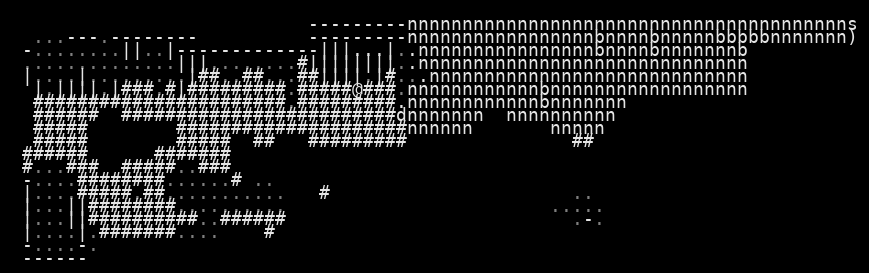
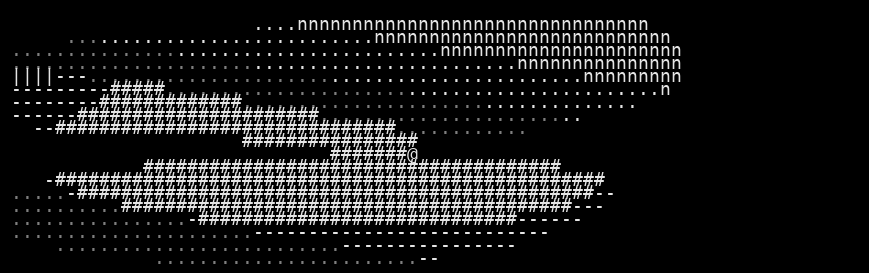
back up

diff --git a/train.py b/train.py
@@ -1536,8 +1536,6 @@ def train_multimodalhack_vae(
                         "train/raw_loss/total": train_loss_dict['total_raw_loss'].item(),
                         "train/raw_loss/occupancy": train_loss_dict['raw_losses']['occupy'].item(),
                         "train/raw_loss/rare_occupancy": train_loss_dict['raw_losses']['rare_occupy'].item(),
-                        "train/raw_loss/total_variation": train_loss_dict['raw_losses']['tv'].item(),
-                        "train/raw_loss/dice_loss": train_loss_dict['raw_losses']['dice'].item(),
                         "train/raw_loss/common_glyph_chars": train_loss_dict['raw_losses']['common_char'].item(),
                         "train/raw_loss/common_glyph_colors": train_loss_dict['raw_losses']['common_color'].item(),
                         "train/raw_loss/rare_glyph_chars": train_loss_dict['raw_losses']['rare_char'].item(),

diff --git a/src/model.py b/src/model.py
@@ -1291,8 +1291,8 @@ def vae_loss(
         'rare_color': 2.0,
         'stats': 0.5, 
         'msg': 0.5, 
-        'bag': 50, 
-        'hero_loc': 100
+        'bag': 8, 
+        'hero_loc': 8
     },
     focal_loss_alpha=0.1,
     focal_loss_gamma=2.0,
@@ -1478,8 +1478,6 @@ def vae_loss(
 
     # Sum raw reconstruction losses
     total_raw_loss = sum(raw_losses[k] * raw_modality_weights.get(k, 1.0) for k in raw_losses)
-    raw_losses['tv'] = tv  # Add total variation loss
-    raw_losses['dice'] = dice_loss
     
     # KL divergence
     # Sigma_q = lowrank_factors @ lowrank_factors.T + torch.diag(torch.exp(logvar))

diff --git a/vae_analysis/train_recon_comparison.md b/vae_analysis/train_recon_comparison.md
@@ -1,6 +1,6 @@
 # VAE Reconstruction Comparison
 
-_Generated: 2025-08-15T13:03:42_
+_Generated: 2025-08-16T21:56:41_
 
 ## Sample 1
 
@@ -9,8 +9,8 @@ _Generated: 2025-08-15T13:03:42_
 | ![orig 0](images/train_sample_000_orig.png) | ![recon 0](images/train_sample_000_recon.png) |
 
 
- Sample 1 Accuracy:   Character accuracy: 0.851 (1411/1659 cells)
-   Color accuracy: 0.889 (1475/1659 cells)
+ Sample 1 Accuracy:   Character accuracy: 0.482 (800/1659 cells)
+   Color accuracy: 0.517 (857/1659 cells)
 
 ================================================================================
 ## Sample 2
@@ -20,8 +20,8 @@ _Generated: 2025-08-15T13:03:42_
 | ![orig 1](images/train_sample_001_orig.png) | ![recon 1](images/train_sample_001_recon.png) |
 
 
- Sample 2 Accuracy:   Character accuracy: 0.641 (1064/1659 cells)
-   Color accuracy: 0.755 (1252/1659 cells)
+ Sample 2 Accuracy:   Character accuracy: 0.486 (806/1659 cells)
+   Color accuracy: 0.570 (946/1659 cells)
 
 ================================================================================
 ## Sample 3
@@ -31,8 +31,8 @@ _Generated: 2025-08-15T13:03:42_
 | ![orig 2](images/train_sample_002_orig.png) | ![recon 2](images/train_sample_002_recon.png) |
 
 
- Sample 3 Accuracy:   Character accuracy: 0.817 (1356/1659 cells)
-   Color accuracy: 0.871 (1445/1659 cells)
+ Sample 3 Accuracy:   Character accuracy: 0.418 (694/1659 cells)
+   Color accuracy: 0.468 (777/1659 cells)
 
 ================================================================================
 ## Sample 4
@@ -42,8 +42,8 @@ _Generated: 2025-08-15T13:03:42_
 | ![orig 3](images/train_sample_003_orig.png) | ![recon 3](images/train_sample_003_recon.png) |
 
 
- Sample 4 Accuracy:   Character accuracy: 0.801 (1329/1659 cells)
-   Color accuracy: 0.854 (1416/1659 cells)
+ Sample 4 Accuracy:   Character accuracy: 0.456 (756/1659 cells)
+   Color accuracy: 0.508 (842/1659 cells)
 
 ================================================================================
 ## Sample 5
@@ -53,8 +53,8 @@ _Generated: 2025-08-15T13:03:42_
 | ![orig 4](images/train_sample_004_orig.png) | ![recon 4](images/train_sample_004_recon.png) |
 
 
- Sample 5 Accuracy:   Character accuracy: 0.861 (1428/1659 cells)
-   Color accuracy: 0.896 (1487/1659 cells)
+ Sample 5 Accuracy:   Character accuracy: 0.473 (785/1659 cells)
+   Color accuracy: 0.535 (887/1659 cells)
 
 ================================================================================
 ## Sample 6
@@ -64,8 +64,8 @@ _Generated: 2025-08-15T13:03:42_
 | ![orig 5](images/train_sample_005_orig.png) | ![recon 5](images/train_sample_005_recon.png) |
 
 
- Sample 6 Accuracy:   Character accuracy: 0.775 (1286/1659 cells)
-   Color accuracy: 0.821 (1362/1659 cells)
+ Sample 6 Accuracy:   Character accuracy: 0.399 (662/1659 cells)
+   Color accuracy: 0.467 (775/1659 cells)
 
 ================================================================================
 ## Sample 7
@@ -75,8 +75,8 @@ _Generated: 2025-08-15T13:03:42_
 | ![orig 6](images/train_sample_006_orig.png) | ![recon 6](images/train_sample_006_recon.png) |
 
 
- Sample 7 Accuracy:   Character accuracy: 0.766 (1270/1659 cells)
-   Color accuracy: 0.822 (1364/1659 cells)
+ Sample 7 Accuracy:   Character accuracy: 0.467 (774/1659 cells)
+   Color accuracy: 0.534 (886/1659 cells)
 
 ================================================================================
 ## Sample 8
@@ -86,8 +86,8 @@ _Generated: 2025-08-15T13:03:42_
 | ![orig 7](images/train_sample_007_orig.png) | ![recon 7](images/train_sample_007_recon.png) |
 
 
- Sample 8 Accuracy:   Character accuracy: 0.809 (1342/1659 cells)
-   Color accuracy: 0.842 (1397/1659 cells)
+ Sample 8 Accuracy:   Character accuracy: 0.492 (816/1659 cells)
+   Color accuracy: 0.565 (938/1659 cells)
 
 ================================================================================
 ## Sample 9
@@ -97,8 +97,8 @@ _Generated: 2025-08-15T13:03:42_
 | ![orig 8](images/train_sample_008_orig.png) | ![recon 8](images/train_sample_008_recon.png) |
 
 
- Sample 9 Accuracy:   Character accuracy: 0.700 (1161/1659 cells)
-   Color accuracy: 0.725 (1203/1659 cells)
+ Sample 9 Accuracy:   Character accuracy: 0.596 (989/1659 cells)
+   Color accuracy: 0.611 (1014/1659 cells)
 
 ================================================================================
 ## Sample 10
@@ -108,8 +108,8 @@ _Generated: 2025-08-15T13:03:42_
 | ![orig 9](images/train_sample_009_orig.png) | ![recon 9](images/train_sample_009_recon.png) |
 
 
- Sample 10 Accuracy:   Character accuracy: 0.778 (1290/1659 cells)
-   Color accuracy: 0.842 (1397/1659 cells)
+ Sample 10 Accuracy:   Character accuracy: 0.550 (912/1659 cells)
+   Color accuracy: 0.608 (1009/1659 cells)
 
-📈 Overall Reconstruction Statistics:   Average Character Reconstruction Accuracy: 0.780
-   Average Color Reconstruction Accuracy: 0.832
+📈 Overall Reconstruction Statistics:   Average Character Reconstruction Accuracy: 0.482
+   Average Color Reconstruction Accuracy: 0.538

diff --git a/vae_analysis/test_recon_comparison.md b/vae_analysis/test_recon_comparison.md
@@ -1,6 +1,6 @@
 # VAE Reconstruction Comparison
 
-_Generated: 2025-08-15T13:03:44_
+_Generated: 2025-08-16T21:56:43_
 
 ## Sample 1
 
@@ -9,8 +9,8 @@ _Generated: 2025-08-15T13:03:44_
 | ![orig 0](images/test_sample_000_orig.png) | ![recon 0](images/test_sample_000_recon.png) |
 
 
- Sample 1 Accuracy:   Character accuracy: 0.570 (946/1659 cells)
-   Color accuracy: 0.652 (1082/1659 cells)
+ Sample 1 Accuracy:   Character accuracy: 0.518 (860/1659 cells)
+   Color accuracy: 0.593 (984/1659 cells)
 
 ================================================================================
 ## Sample 2
@@ -20,8 +20,8 @@ _Generated: 2025-08-15T13:03:44_
 | ![orig 1](images/test_sample_001_orig.png) | ![recon 1](images/test_sample_001_recon.png) |
 
 
- Sample 2 Accuracy:   Character accuracy: 0.797 (1323/1659 cells)
-   Color accuracy: 0.808 (1340/1659 cells)
+ Sample 2 Accuracy:   Character accuracy: 0.703 (1166/1659 cells)
+   Color accuracy: 0.714 (1185/1659 cells)
 
 ================================================================================
 ## Sample 3
@@ -31,8 +31,8 @@ _Generated: 2025-08-15T13:03:44_
 | ![orig 2](images/test_sample_002_orig.png) | ![recon 2](images/test_sample_002_recon.png) |
 
 
- Sample 3 Accuracy:   Character accuracy: 0.553 (918/1659 cells)
-   Color accuracy: 0.677 (1123/1659 cells)
+ Sample 3 Accuracy:   Character accuracy: 0.521 (864/1659 cells)
+   Color accuracy: 0.618 (1026/1659 cells)
 
 ================================================================================
 ## Sample 4
@@ -42,8 +42,8 @@ _Generated: 2025-08-15T13:03:44_
 | ![orig 3](images/test_sample_003_orig.png) | ![recon 3](images/test_sample_003_recon.png) |
 
 
- Sample 4 Accuracy:   Character accuracy: 0.793 (1316/1659 cells)
-   Color accuracy: 0.805 (1335/1659 cells)
+ Sample 4 Accuracy:   Character accuracy: 0.669 (1110/1659 cells)
+   Color accuracy: 0.702 (1165/1659 cells)
 
 ================================================================================
 ## Sample 5
@@ -53,8 +53,8 @@ _Generated: 2025-08-15T13:03:44_
 | ![orig 4](images/test_sample_004_orig.png) | ![recon 4](images/test_sample_004_recon.png) |
 
 
- Sample 5 Accuracy:   Character accuracy: 0.738 (1224/1659 cells)
-   Color accuracy: 0.742 (1231/1659 cells)
+ Sample 5 Accuracy:   Character accuracy: 0.695 (1153/1659 cells)
+   Color accuracy: 0.723 (1200/1659 cells)
 
 ================================================================================
 ## Sample 6
@@ -64,8 +64,8 @@ _Generated: 2025-08-15T13:03:44_
 | ![orig 5](images/test_sample_005_orig.png) | ![recon 5](images/test_sample_005_recon.png) |
 
 
- Sample 6 Accuracy:   Character accuracy: 0.606 (1006/1659 cells)
-   Color accuracy: 0.635 (1054/1659 cells)
+ Sample 6 Accuracy:   Character accuracy: 0.561 (931/1659 cells)
+   Color accuracy: 0.632 (1048/1659 cells)
 
 ================================================================================
 ## Sample 7
@@ -75,8 +75,8 @@ _Generated: 2025-08-15T13:03:44_
 | ![orig 6](images/test_sample_006_orig.png) | ![recon 6](images/test_sample_006_recon.png) |
 
 
- Sample 7 Accuracy:   Character accuracy: 0.773 (1282/1659 cells)
-   Color accuracy: 0.794 (1317/1659 cells)
+ Sample 7 Accuracy:   Character accuracy: 0.613 (1017/1659 cells)
+   Color accuracy: 0.624 (1035/1659 cells)
 
 ================================================================================
 ## Sample 8
@@ -86,8 +86,8 @@ _Generated: 2025-08-15T13:03:44_
 | ![orig 7](images/test_sample_007_orig.png) | ![recon 7](images/test_sample_007_recon.png) |
 
 
- Sample 8 Accuracy:   Character accuracy: 0.758 (1257/1659 cells)
-   Color accuracy: 0.777 (1289/1659 cells)
+ Sample 8 Accuracy:   Character accuracy: 0.647 (1074/1659 cells)
+   Color accuracy: 0.698 (1158/1659 cells)
 
 ================================================================================
 ## Sample 9
@@ -97,8 +97,8 @@ _Generated: 2025-08-15T13:03:44_
 | ![orig 8](images/test_sample_008_orig.png) | ![recon 8](images/test_sample_008_recon.png) |
 
 
- Sample 9 Accuracy:   Character accuracy: 0.631 (1047/1659 cells)
-   Color accuracy: 0.658 (1092/1659 cells)
+ Sample 9 Accuracy:   Character accuracy: 0.571 (947/1659 cells)
+   Color accuracy: 0.597 (990/1659 cells)
 
 ================================================================================
 ## Sample 10
@@ -108,8 +108,8 @@ _Generated: 2025-08-15T13:03:44_
 | ![orig 9](images/test_sample_009_orig.png) | ![recon 9](images/test_sample_009_recon.png) |
 
 
- Sample 10 Accuracy:   Character accuracy: 0.625 (1037/1659 cells)
-   Color accuracy: 0.632 (1048/1659 cells)
+ Sample 10 Accuracy:   Character accuracy: 0.548 (909/1659 cells)
+   Color accuracy: 0.570 (945/1659 cells)
 
-📈 Overall Reconstruction Statistics:   Average Character Reconstruction Accuracy: 0.685
-   Average Color Reconstruction Accuracy: 0.718
+📈 Overall Reconstruction Statistics:   Average Character Reconstruction Accuracy: 0.605
+   Average Color Reconstruction Accuracy: 0.647
